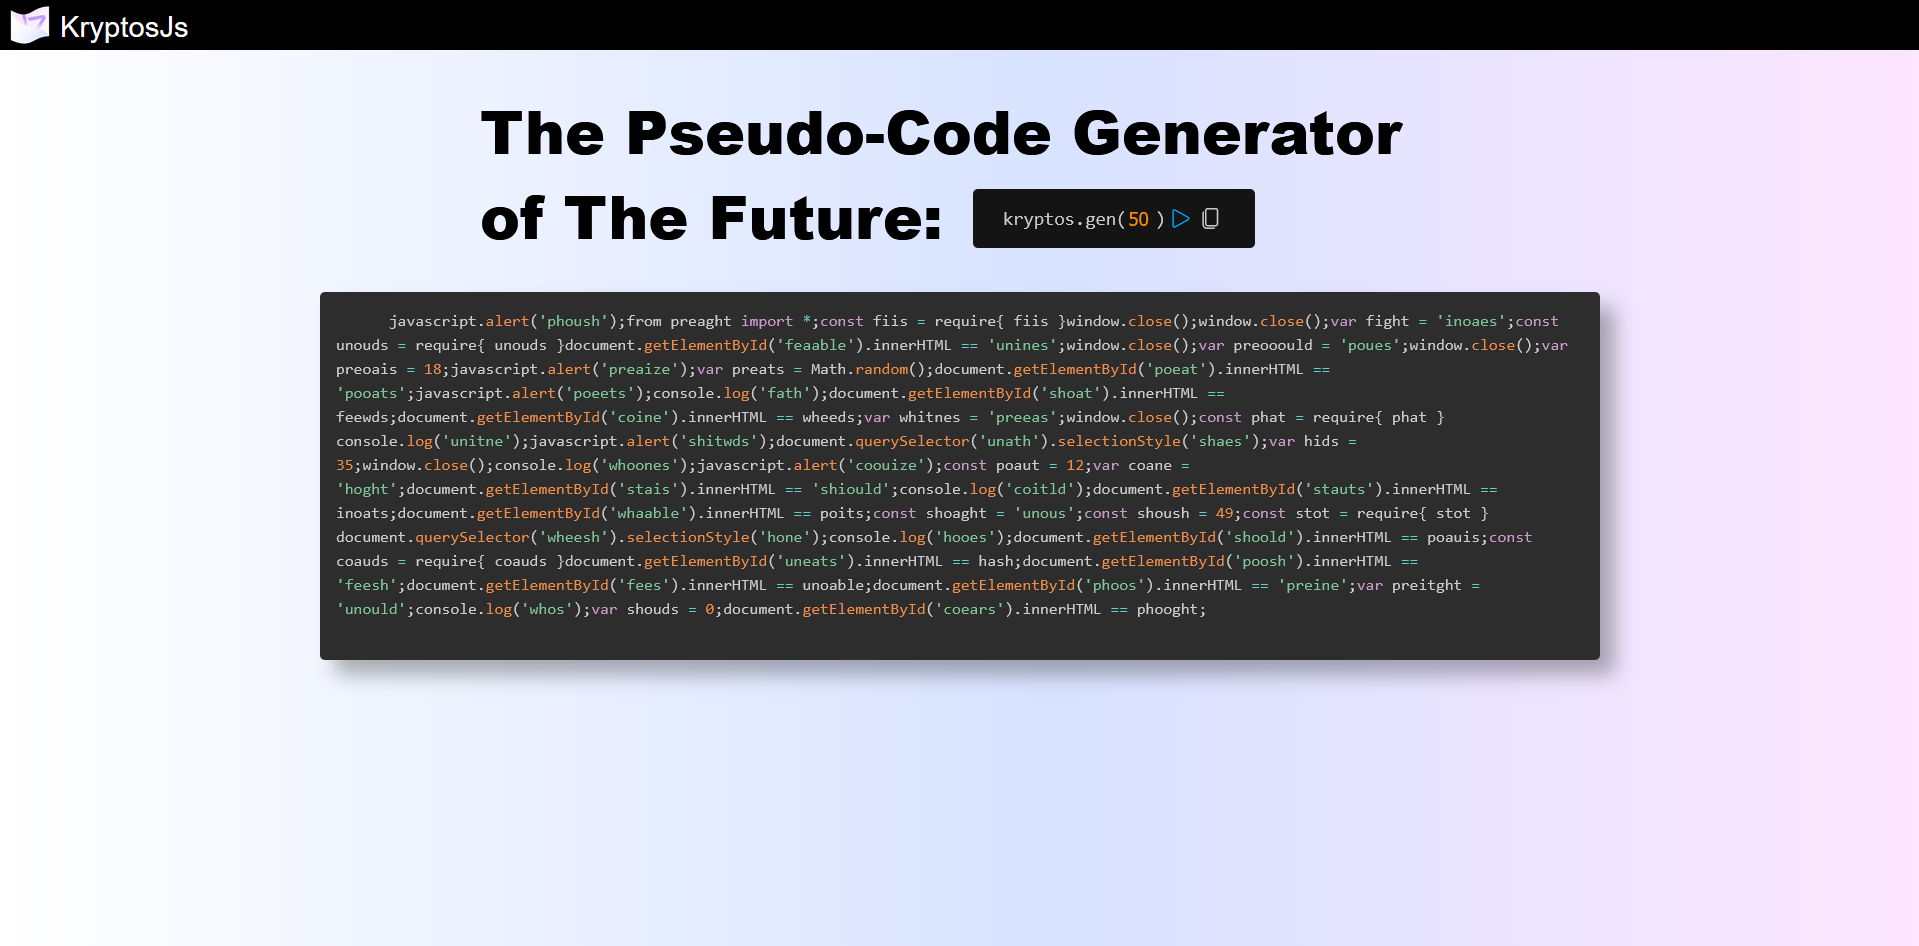
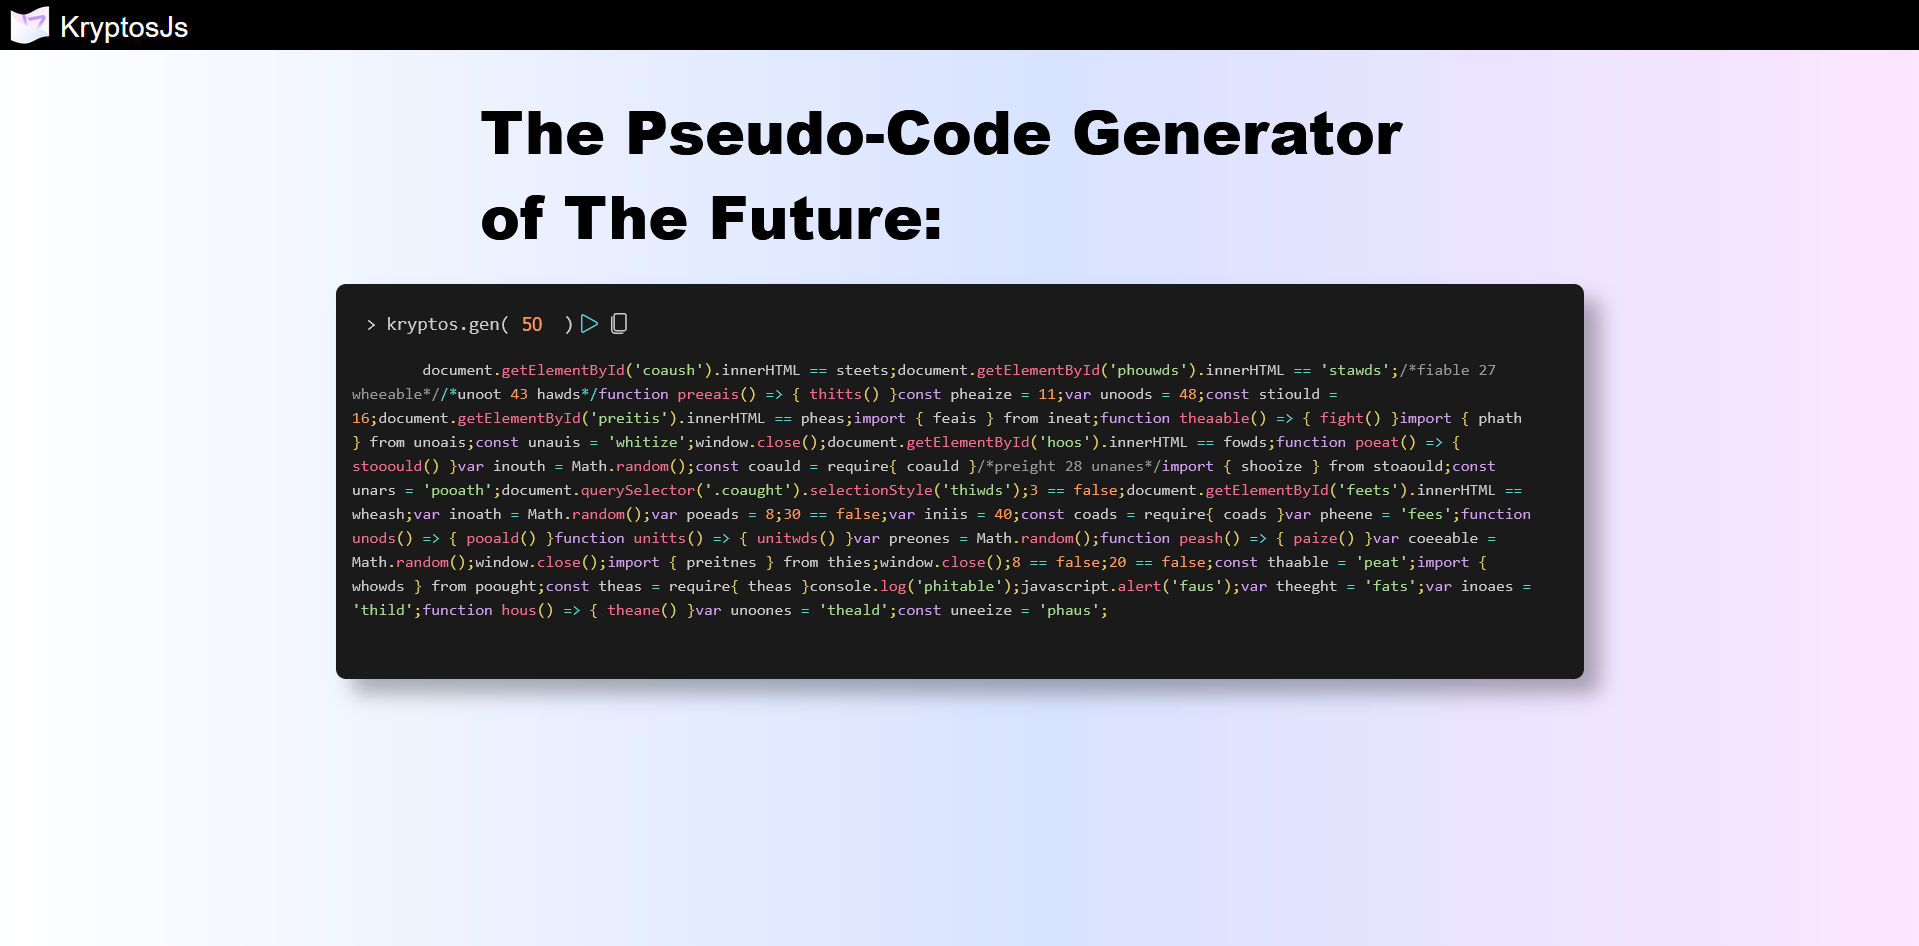
reformatted site

Changed region(s): [[0.1537, 0.1839, 0.8609, 0.7357]]

diff --git a/prism.css b/prism.css
@@ -1,4 +1,77 @@
 /* PrismJS 1.29.0
 https://prismjs.com/download.html#themes=prism-tomorrow&languages=clike+javascript&plugins=line-numbers */
-code[class*=language-],pre[class*=language-]{color:#ccc;background:0 0;font-family:Consolas,Monaco,'Andale Mono','Ubuntu Mono',monospace;font-size:1em;text-align:left;white-space:pre;word-spacing:normal;word-break:normal;word-wrap:normal;line-height:1.5;-moz-tab-size:4;-o-tab-size:4;tab-size:4;-webkit-hyphens:none;-moz-hyphens:none;-ms-hyphens:none;hyphens:none}pre[class*=language-]{padding:1em;margin:.5em 0;overflow:auto}:not(pre)>code[class*=language-],pre[class*=language-]{background:#2d2d2d}:not(pre)>code[class*=language-]{padding:.1em;border-radius:.3em;white-space:normal}.token.block-comment,.token.cdata,.token.comment,.token.doctype,.token.prolog{color:#999}.token.punctuation{color:#ccc}.token.attr-name,.token.deleted,.token.namespace,.token.tag{color:#e2777a}.token.function-name{color:#6196cc}.token.boolean,.token.function,.token.number{color:#f08d49}.token.class-name,.token.constant,.token.property,.token.symbol{color:#f8c555}.token.atrule,.token.builtin,.token.important,.token.keyword,.token.selector{color:#cc99cd}.token.attr-value,.token.char,.token.regex,.token.string,.token.variable{color:#7ec699}.token.entity,.token.operator,.token.url{color:#67cdcc}.token.bold,.token.important{font-weight:700}.token.italic{font-style:italic}.token.entity{cursor:help}.token.inserted{color:green}
-pre[class*=language-].line-numbers{position:relative;padding-left:3.8em;counter-reset:linenumber}pre[class*=language-].line-numbers>code{position:relative;white-space:inherit}.line-numbers .line-numbers-rows{position:absolute;pointer-events:none;top:0;font-size:100%;left:-3.8em;width:3em;letter-spacing:-1px;border-right:1px solid #999;-webkit-user-select:none;-moz-user-select:none;-ms-user-select:none;user-select:none}.line-numbers-rows>span{display:block;counter-increment:linenumber}.line-numbers-rows>span:before{content:counter(linenumber);color:#999;display:block;padding-right:.8em;text-align:right}
+code[class*=language-],pre[class*=language-]{
+  color:#ccc;background:0 0;
+  font-family:Consolas,Monaco,'Andale Mono','Ubuntu Mono',monospace;
+  font-size:1em;text-align:left;
+  white-space:pre;
+  word-spacing:normal;
+  word-break:normal;
+  word-wrap:normal;
+  line-height:1.5;
+  -moz-tab-size:4;
+  -o-tab-size:4;
+  tab-size:4;
+  -webkit-hyphens:none;
+  -moz-hyphens:none;
+  -ms-hyphens:none;
+  hyphens:none
+}
+pre[class*=language-]{
+  padding:1em;
+  margin:.5em 0;
+  overflow:auto
+}
+:not(pre)>code[class*=language-],pre[class*=language-]{
+  background:#1a1a1a
+}
+:not(pre)>code[class*=language-]{
+  padding:.1em;
+  border-radius:.3em;
+  white-space:normal
+}
+.token.block-comment,.token.comment{
+  color:#999
+}
+.token.cdata,.token.doctype,.token.prolog{
+  color:#f36d8e;
+}
+.token.punctuation{
+  color:#e6cf67;
+}
+.token.attr-name,.token.deleted,.token.namespace,.token.tag{
+  color:#eb696d;
+}
+.token.function-name{
+  color:#3c8bda;
+}
+.token.boolean,.token.number{
+  color:#ff995e;
+}
+.token.function{
+  color: #f36d8e;
+}
+.token.class-name,.token.constant,.token.property,.token.symbol{
+  color:#e6cf67;
+}
+.token.atrule,.token.builtin,.token.important,.token.keyword,.token.selector{
+  color:#d19fee;
+}
+.token.attr-value,.token.char,.token.regex,.token.string,.token.variable{
+  color:#a6da91;
+}
+.token.entity,.token.operator,.token.url{
+  color:#58d4ce;
+}
+.token.bold,.token.important{
+  font-weight:700;
+}
+.token.italic{
+  font-style:italic;
+}
+.token.entity{
+  cursor:help;
+}
+.token.inserted{
+  color:green;
+}

diff --git a/main.css b/main.css
@@ -50,18 +50,27 @@ h1 {
   font-size: 45pt;
 }
 
-.codeblock {
+.box {
   position: fixed;
   top: 30%;
   width: 65%;
   left: 50%;
   transform: translate(-50%, 0%);
   height: fit-content;
-  border-radius: 5px;
+  background-color: #1a1a1a;
+  box-shadow: 15px 15px 20px rgba(0, 0, 0, 0.30);
+  border-radius: 10px;
+}
+
+.codeblock {
+  position: relative;
+  top: -10px;
+  width: 95%;
+  left: 0;
+  height: fit-content;
+  border: none;
   background-color: rgb(0, 0, 0);
   color: gray;
-  display: flexbox;
-  box-shadow: 15px 15px 20px rgba(0, 0, 0, 0.30);
 }
 
 #jsblock {
@@ -70,37 +79,38 @@ h1 {
 }
 
 .container {
-  position: fixed;
-  left: 58%;
-  top: 20%;
-  width: auto;
-  transform: translate(-50%, 0%);
+  position: relative;
+  left: 20px;
+  top: 10px;
+  width: 30%;
   display: inline-flex;
-  background-color: rgb(20, 20, 20);
-  padding-left: 30px;
-  padding-right: 30px;
-  border-radius: 5px;
+  background-color: #1a1a1a;
+  border: none;
   font-family: consolas;
   font-weight: 500;
   font-size: 14pt;
+  border-radius: 10px 10px 0px 0px;
 }
 
 p {
-  color: rgb(201, 201, 201);
+  color: #ccc;
+  margin-left: 10px;
 }
 
 #input {
-  color: rgb(255, 136, 0);
+  color: #ff995e;
   background-color: transparent;
   border: none;
-  width: 25px;
+  width: 30px;
   min-width: 0;
   outline: none;
   font-size: 14pt;
+  margin-left: 10px;
 }
 
 #go {
-  color: rgb(0, 162, 255);
+  position: relative;
+  color: #58d4ce;
   background-color: transparent;
   border: none;
   width: 30px;
@@ -111,7 +121,8 @@ p {
 }
 
 #copy {
-  color: rgb(201, 201, 201);
+  position: relative;
+  color: #ccc;
   background-color: transparent;
   border: none;
   width: 30px;

diff --git a/kryptos.js b/kryptos.js
@@ -18,7 +18,7 @@ function gen(length) {
     num = Math.floor(Math.random() * (50 - 0 + 1) + 0);
     string += prefix.random()+snips.random()+suffix.random();
     string2 += prefix.random()+snips.random()+suffix.random();
-    let number = Math.floor(Math.random() * 13) + 1;
+    let number = Math.floor(Math.random() * 16) + 1;
     switch(number) {
       case 1:
         output += "var "+string+" = "+num+";";
@@ -27,7 +27,7 @@ function gen(length) {
         output += "const "+string+" = "+num+";";
         break;
       case 3:
-        output += "document.querySelector('"+string+"').selectionStyle('"+string2+"');";
+        output += "document.querySelector('."+string+"').selectionStyle('"+string2+"');";
         break;
       case 4:
         output += "document.getElementById('"+string+"').innerHTML == "+string2+";";
@@ -57,10 +57,16 @@ function gen(length) {
         output += "const "+string+" = require{ "+string+" }";
         break;
       case 13:
-        output += "from "+string2+" import *;";
+        output += num+" == false;"
         break;
       case 14:
         output += "import { "+string2+" } from "+string+";";
+        break;
+      case 15:
+        output += "function "+string2+"() => { "+string+"() }";
+        break;
+      case 16:
+        output += "/*"+string+" "+num+" "+string2+"*/";
         break;
     }
   }

diff --git a/index.html b/index.html
@@ -16,18 +16,20 @@
       <h3>KryptosJs</h3>
     </header>
     <h1>The Pseudo-Code Generator of The Future:</h1>
-    <pre class="codeblock">
-      <code class="lang-js" id="jsblock">
-
-      </code>
-    </pre>
-    <div class="container">
-      <p>kryptos.gen(</p>
-      <input id="input" type="text" value="50">
-      <p>)</p>
-      <br>
-      <button id="go">&#xE768;</button>
-      <button id="copy">&#xE8C8;</button>
+    <div class="box">
+      <div class="container">
+        <p>> kryptos.gen(</p>
+        <input id="input" type="text" value="50">
+        <p>)</p>
+        <br>
+        <button id="go">&#xE768;</button>
+        <button id="copy">&#xE8C8;</button>
+      </div>
+      <pre class="codeblock">
+        <code class="lang-js" id="jsblock">
+  
+        </code>
+      </pre>
     </div>
     <script src="main.js" type="module"></script>
     <script src="kryptos.js" type="module"></script>
